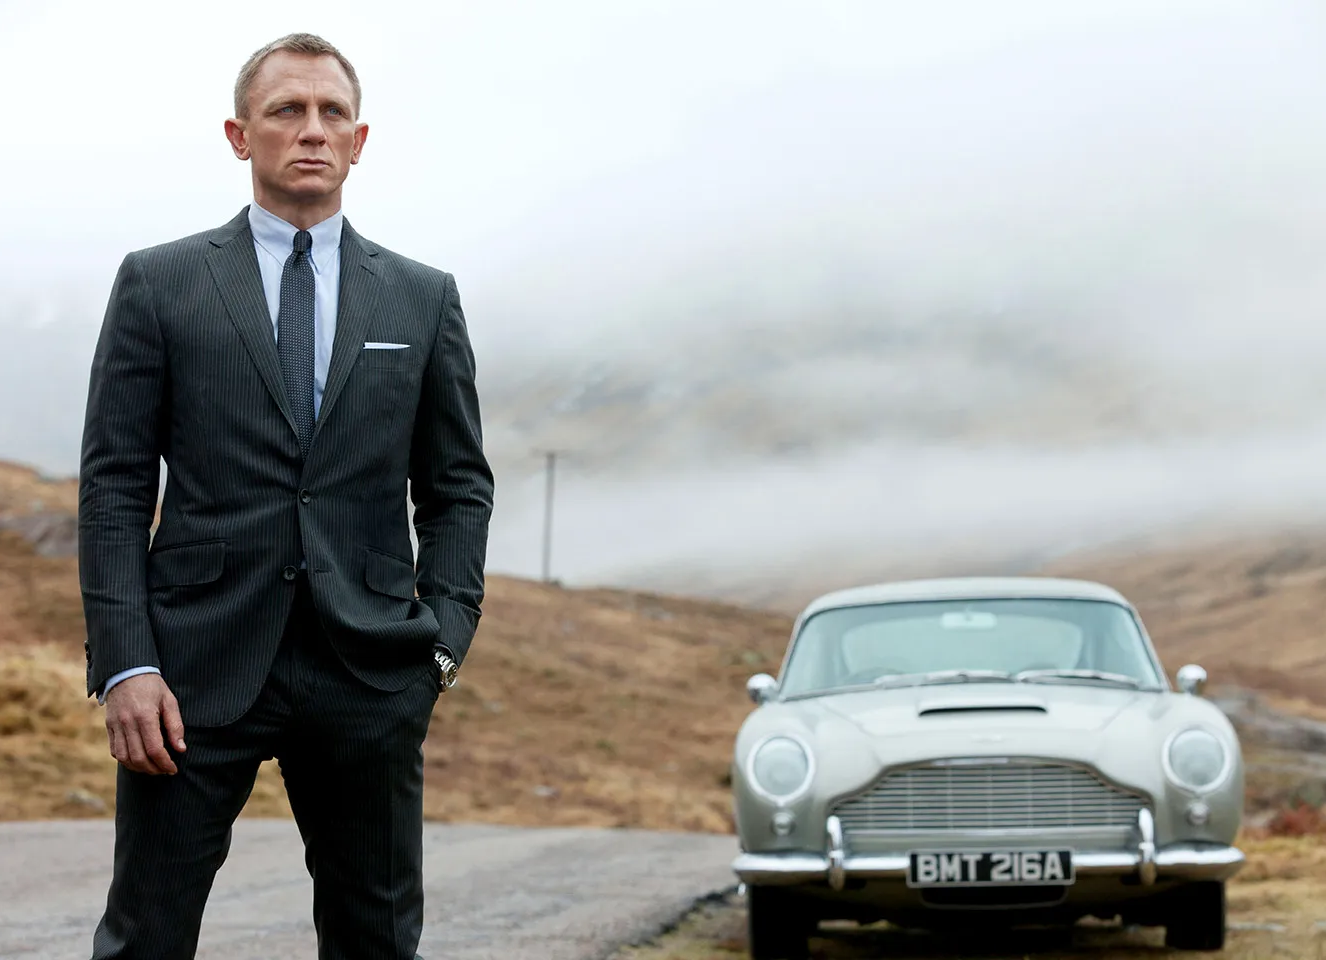
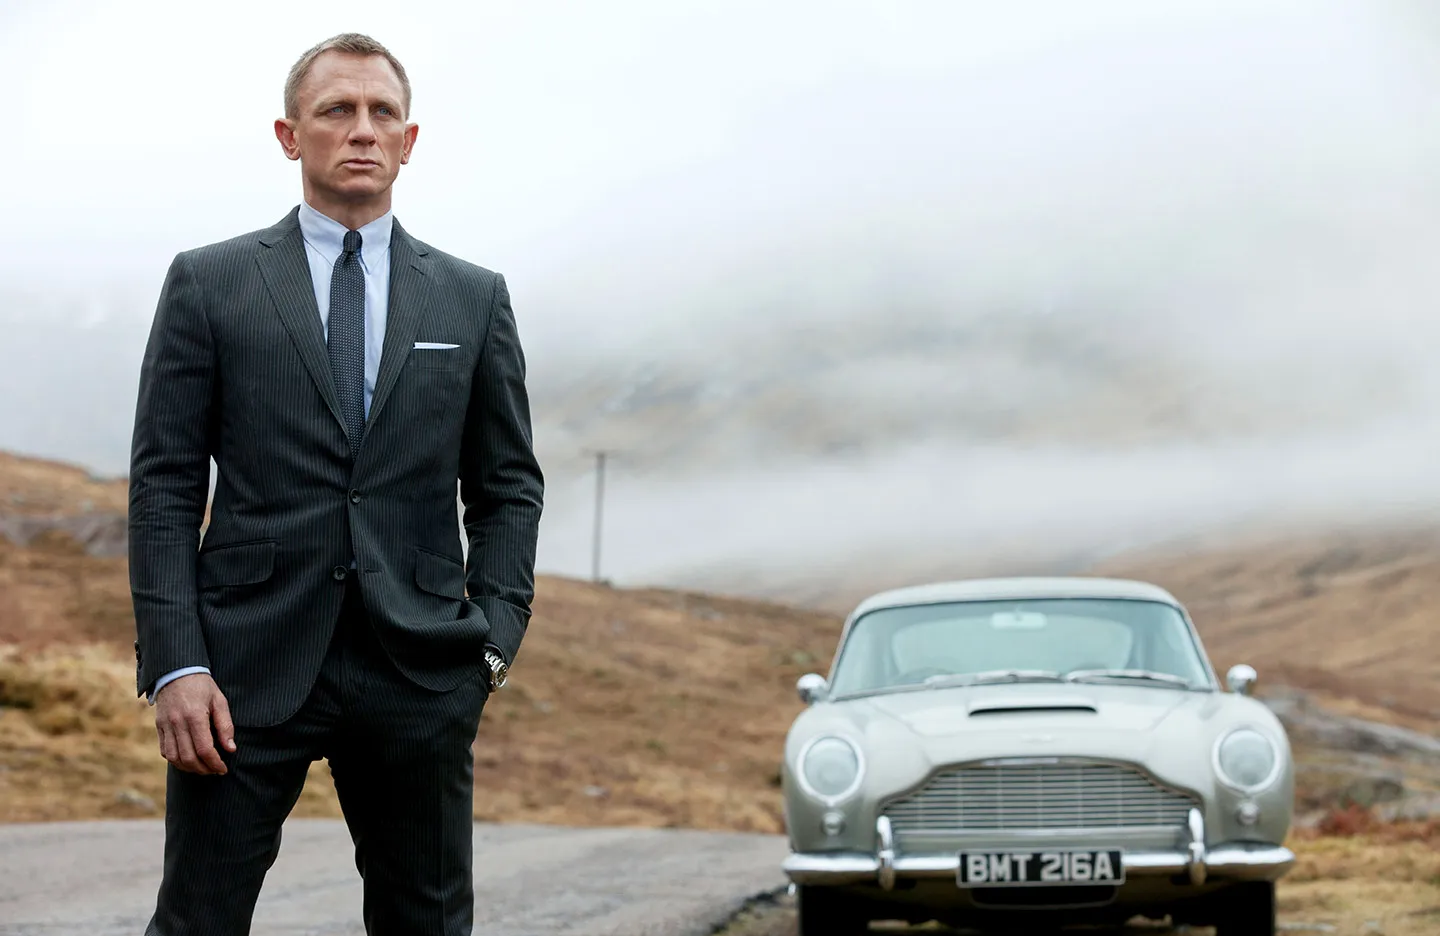
Version31

diff --git a/personaje.html b/personaje.html
@@ -107,8 +107,7 @@
 										  <li class="dot" value="6"></li>
 										  <li class="dot" value="7"></li>
 										</ul>
-										
-									  </section>
+									</section>
 									</div>
 									<div class="content">
 										<div class="inner">
@@ -125,27 +124,27 @@
 									</div>
 								</section>
 								<section>
-									<a href="generic.html" class="image">
-										<img src="images/personaje/personaje3.png" alt="" data-position="25% 25%" />
+									<a class="image">
+										<img src="images/personaje/personaje3.png" alt="" data-position="center center" />
 									</a>
 									<div class="content">
 										<div class="inner">
 											<header class="major">
-												<h3>Cine y televisión</h3>
+												<h3>Cine y Televisión</h3>
 											</header>
-											<p class="align-justify" style="font-size: smaller;">Considero el género drama y thriller como los más vistos por mí tanto para cine como
-											televisión porque contienen un ingrediente importante que es la intriga, sobre todo si está bien justificado en el guion. Dicho esto, las
-											películas que puedo ver varias veces y no me aburro, por lo tanto las he visto, y las que califican como la descripción inicial, estimo que
-											son mis favoritas. La lista inicia con la saga The Dark Knight, la saga James Bond, la saga Millenium Series (Stieg Larsson), Mulholland Drive,
-											Non-Stop, Se7en y Zodiac. En cuanto a realizadores, los trabajos más admirables son de Christopher Nolan, David Lynch, David Fincher, Hans Zimmer,
-											Hoyte van Hoytema, Christian Bale, Joaquin Phoenix y Heath Ledger. En cuanto a series, disfruto ver True Detective, Bron-Broen, Breaking Bad, 
-											Ray Donovan, Gossip Girl, The O.C. y Cowboy Bebop, pero comedias también como The Big Bang Theory, The IT Crowd, Peep Show y Kenan & Kel</p>
+											<p class="align-justify" style="font-size: smaller;">Considero el género drama y thriller como los más vistos por mí tanto para cine como televisión 
+											porque contienen un ingrediente importante que es la intriga, sobre todo si está bien justificado en el guion. Dicho esto, las películas que puedo 
+											ver varias veces y no me aburro, por lo tanto las he visto, y las que califican como la descripción inicial, estimo que son mis favoritas. La lista 
+											inicia con la saga The Dark Knight, la saga James Bond, la saga Millenium Series (Stieg Larsson), Mulholland Drive, Non-Stop, Se7en y Zodiac. En 
+											cuanto a realizadores, los trabajos más admirables son de Christopher Nolan, David Lynch, David Fincher, Hans Zimmer, Hoyte van Hoytema, Christian Bale, 
+											Joaquin Phoenix y Heath Ledger. En cuanto a series, disfruto ver True Detective, Bron-Broen, Breaking Bad, Ray Donovan, Gossip Girl, The O.C. y Cowboy 
+											Bebop, pero comedias también como The Big Bang Theory, The IT Crowd, Peep Show y Kenan & Kel.</p>
 										</div>
 									</div>
 								</section>
 								<section>
 									<a href="generic.html" class="image">
-										<img src="images/personaje/personaje4.png" alt="" data-position="top center" />
+										<img src="images/personaje/personaje4.png" alt="" data-position="center center" />
 									</a>
 									<div class="content">
 										<div class="inner">

diff --git a/semana4.html b/semana4.html
@@ -51,14 +51,14 @@
 										<h3>Clase 7</h3>
 										<p>Vimos distintos proyectos realizados con Arduino que resolvían varios problemas y eran creativos. Parte de la actividad en clase
 										fue escribir en una hoja por equipos ideas sobre proyectos en base a Arduino y el que colocara más ideas realistas ganaría un punto
-										para la siguiente actividad. Al finalizar la clase, el profesor nos enseñó una diapositiva de manera rápida sobre el lenguaje CSS para 
-										tener una idea de lo que íbamos a ver la siguiente clase.</p>
+										para la siguiente actividad. Al finalizar la clase, el profesor nos enseñó una diapositiva de manera rápida sobre el <em>lenguaje CSS</em> 
+										para tener una idea de lo que íbamos a ver la siguiente clase.</p>
 										
 										<p><b>Quedó pendiente desarrollar el encargo de investigar 3 proyectos con Arduino de manera individual.</b></p>
 										<h3>Clase 8</h3>
-										<p>Lo primero que aprendimos fue la forma de inspeccionar una página web desde el lenguaje HTML, esto se puede hacer mediante la tecla F12 del
-										teclado, para así poder identificar una sección y realizar la modificación si es que lo requiere. Tener en cuenta también que el texto (desde 
-										Visual Studio Code) que está en color verde significa que es un comentario y que no se va a visualizar en la página web.
+										<p>Lo primero que aprendimos fue la forma de inspeccionar una página web desde el <em>lenguaje HTML</em>, esto se puede hacer mediante la 
+										tecla F12 del teclado, para así poder identificar una sección y realizar la modificación si es que lo requiere. Tener en cuenta también 
+										que el texto (desde Visual Studio Code) que está en color verde significa que es un comentario y que no se va a visualizar en la página web.
 										</p>
 										<ul>
 											<li>Para crear un <b>archivo CSS principal</b> se tiene que enlazar en la parte head del archivo HTML.</li>
@@ -66,7 +66,7 @@
 											<li>Para modificar a un elemento se utiliza el atributo <b><em>id=" "</em></b> y para un conjunto de elementos, el atributo <b><em>class=" "</em></b>.</li>
 											<li>Para llamar a una clase en CSS es mediante un <b><em>punto (.)</em></b> y a un identificador mediante un <b><em>numeral (#)</em></b>.</li>
 											<li>Si inspeccionas la página web, se va a localizar un apartado <em>Style</em> que te permite ver la línea del CSS para su modificación.</li>
-											<li>Google Fonts permite descargar fuentes de texto para utilizar en diseño web.</li>
+											<li><b>Google Fonts</b> permite descargar fuentes de texto para utilizar en diseño web.</li>
 										</ul>
 									</section>
 

diff --git a/semana5.html b/semana5.html
@@ -58,16 +58,16 @@
 										
 										<p><b></b></p>
 										<h3>Clase 10</h3>
-										<p>Como primera parte fue la enseñanza de Google Sites para conocer una alternativa para realizar la página web para el proyecto final del curso sin
-										necesidad de conocer códigos. Está herramienta es muy práctica en lo que se refiere a la variedad de recursos que puedes colocar en la plantilla con
-										lo que respecta a Google Drive. La gran desventaja es que no tiene plantillas prediseñadas, tienes que empezar desde cero la plantilla. También hay
-										otras posibilidades como:</p>
+										<p>Como primera parte fue la enseñanza de <b><em>Google Sites</em></b> para conocer una alternativa para realizar la página web para el proyecto final 
+										del curso sin necesidad de conocer códigos. Está herramienta es muy práctica en lo que se refiere a la variedad de recursos que puedes colocar en la 
+										plantilla con lo que respecta a <em>Google Drive</em>. La gran desventaja es que no tiene plantillas prediseñadas, tienes que empezar desde cero la plantilla. 
+										También hay	otras posibilidades como:</p>
 										<ul>
-											<li>Canva cuenta con una pluralidad de diseños. El punto negativo es que más complejo crear distintas páginas debido al proceso para enlazarlas.</li>
-											<li>Notion es para los que prefieren un diseño minimalista y es más fácil subir contenido.</li>
-											<li>Framer y Hocoos cuentan con inteligencia artificial lo que te facilita el diseño de la página basado en preguntas o interacciones con la herramienta
-											La desventaja es que no es tan sencillo editar la página como por ejemplo el diseño.</li>
-											<li>Wix te permite escalar y cuenta con un portafolio de plantillas. La debilidad es que la ruta de aprendizaje es más complicada que el resto.</li>
+											<li><b>Canva</b> cuenta con una pluralidad de diseños. El punto negativo es que más complejo crear distintas páginas debido al proceso para enlazarlas.</li>
+											<li><b>Notion</b> es para los que prefieren un diseño minimalista y es más fácil subir contenido.</li>
+											<li><b>Framer</b> y <b>Hocoos</b> cuentan con inteligencia artificial lo que te facilita el diseño de la página basado en preguntas o interacciones con la 
+											herramienta. La desventaja es que no es tan sencillo editar la página como por ejemplo el diseño.</li>
+											<li><b>Wix</b> te permite escalar y cuenta con un portafolio de plantillas. La debilidad es que la ruta de aprendizaje es más complicada que el resto.</li>
 										</ul>
 									</section>
 

diff --git a/introspeccion.html b/introspeccion.html
@@ -53,7 +53,8 @@
 										que le gusta escribir debido a que me siento más cómodo al momento de expresar algo, pero sabiendo que no muchas personas son
 										aficionadas a la lectura, es indispensable la utilización de material gráfico para captar su atención e invitarlos a leer las
 										distintas viñetas. Un punto a favor del diseño de la plantilla es que la ventana del lado izquierdo del menú principal se mantiene
-										de manera estática, lo cual decidí colocar un video para que sea más dinámica la presentación.</p>
+										de manera estática, lo cual decidí colocar un video para que sea más dinámica la presentación. Como valor agregado, utilicé otras
+										plantillas para variar el diseño de acuerdo a la sección a explicar.</p>
 										<h3>¿Cómo sé que soy yo?</h3>
 										<p>El hecho de revisar el código de cada plantilla, indistintamente el diseño de esta, al comienzo puede ser complicado por ver
 										tanto texto o color. Sin embargo, cuando vas inquiriendo en cada estructura, te puedes ir guiando con lo que ves en el front end
